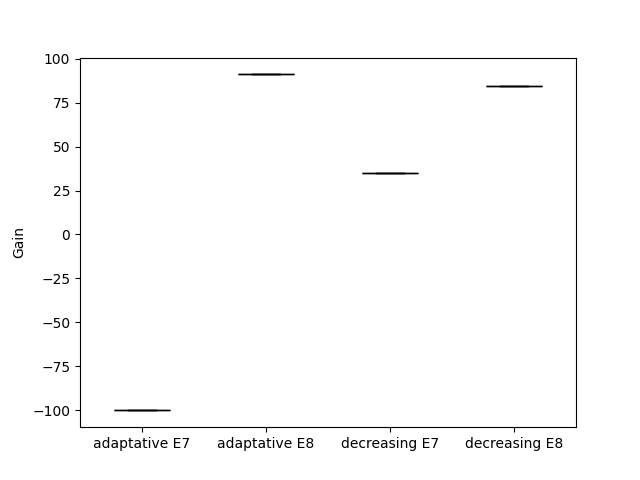
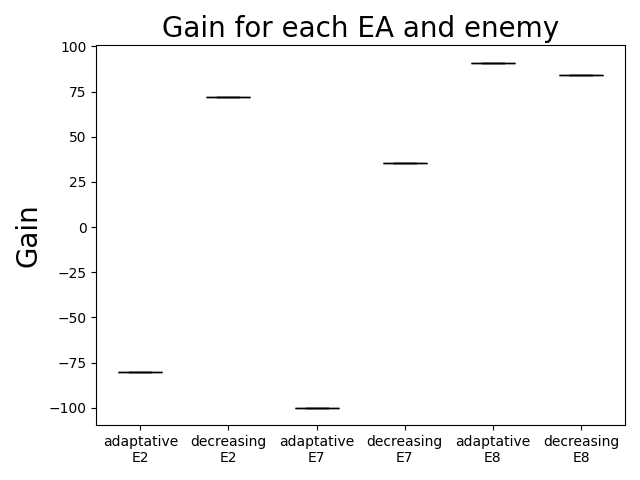
fix plotting

diff --git a/results_ass1.py b/results_ass1.py
@@ -37,7 +37,12 @@ def plot_stats(stats: dict, enemy: int):
     for _, df in stats.items():
         all_best_fit.append(df['best_fit'])
         all_mean_fit.append(df['mean_fit'])
-        all_median_prob.append(df['median_prob'] * 100)
+        if 'median_prob' in df.columns:
+            all_median_prob.append(df['median_prob'] * 100)
+        elif 'prob' in df.columns:
+            all_median_prob.append(df['prob'] * 100)
+        else:
+            raise Exception("whoops")
     
     best_fit_df = pd.DataFrame(all_best_fit)
     mean_fit_df = pd.DataFrame(all_mean_fit)
@@ -55,20 +60,25 @@ def plot_stats(stats: dict, enemy: int):
     
     def plot_plot():
         plt.figure(figsize=(10, 6))
-        plt.plot(generations, avg_best_fit, label='Average Best Fitness', color='blue', linestyle='-',)
+        plt.plot(generations, avg_best_fit, label='Av. Best Fitness', color='blue', linestyle='-',)
         plt.fill_between(generations, avg_best_fit - std_best_fit, avg_best_fit + std_best_fit, color='blue', alpha=0.2)
-        plt.plot(generations, avg_mean_fit, label='Average Mean Fitness', color='green', linestyle='-')
+        plt.plot(generations, avg_mean_fit, label='Av. Mean Fitness', color='green', linestyle='-')
         plt.fill_between(generations, avg_mean_fit - std_mean_fit, avg_mean_fit + std_mean_fit, color='green', alpha=0.2)
-        plt.plot(generations, avg_median_prob, label='Average Median Probability', color='red', linestyle='-')
+        plt.plot(generations, avg_median_prob, label='Av. Median Probability', color='red', linestyle='-')
         plt.fill_between(generations, avg_median_prob - std_median_prob, avg_median_prob + std_median_prob, color='red', alpha=0.2)
-        
 
-        plt.title(f'Average fitness in 10 runs of EA1 for Enemy {enemy}')
-        plt.xlabel('Generation')
-        plt.ylabel('Fitness')
+        # ax2 = plt.gca().twinx()
+        # ax2.set_ylabel('Percentage', fontsize=20)  # Set title for the right y-axis
+        # ax2.plot(generations, avg_median_prob, label='Av. Median Probability', color='red', linestyle='-')
+        # ax2.fill_between(generations, avg_median_prob - std_median_prob, avg_median_prob + std_median_prob, color='red', alpha=0.2)
+        
+        plt.title(f'Average fitness in 10 runs of EA1 for Enemy {enemy}', fontsize=20)
+        plt.xlabel('Generation', fontsize=20)
+        plt.ylabel('Fitness', fontsize=20)
         plt.legend(
-            loc='lower left', bbox_to_anchor=(0.5, 0.2),
-            fontsize=12,
+            loc='lower left',
+            bbox_to_anchor=(0.5, 0.2),
+            fontsize=16,
             markerscale=2,
             # handlelength=3,
             # handleheight=2, #legend
@@ -77,6 +87,8 @@ def plot_stats(stats: dict, enemy: int):
             # shadow=True,
         )
         plt.grid(True)
+        plt.tight_layout()
+
         plot_name = os.path.basename(next(iter(stats)))[:-2]
         plt.savefig(os.path.join(save_path, plot_name))
         print("saved " + plot_name)
@@ -163,7 +175,7 @@ def calculate_gain(weights_file_path: str, enemies: list) -> dict:
             print(ea.env.play(pcont=best_ind))
 
             
-            all_gains_dict[f"{weights_file_path.split('/')[1].replace('_ea', '').replace('_bad', '')} E{enemy}"] = gains_list
+            all_gains_dict[f"{weights_file_path.split('/')[1].replace('_ea', '').replace('_bad', '')}\nE{enemy}"] = gains_list
     
 
     return all_gains_dict
@@ -182,7 +194,9 @@ def save_box_plot(all_gains_dict: dict):
     print(len(colors))
 
     _, ax = plt.subplots()
-    ax.set_ylabel('Gain')
+    ax.set_ylabel('Gain', fontsize=20)
+    ax.set_title('Gain for each EA and enemy', fontsize=20)
+    
 
     bplot = ax.boxplot(gains,
                     patch_artist=True,
@@ -191,6 +205,7 @@ def save_box_plot(all_gains_dict: dict):
 
     for patch, color in zip(bplot['boxes'], colors):
         patch.set_facecolor(color)
+    plt.tight_layout()
 
     plt.savefig("results/plots/box-plot")
     print("saved box_plot")
@@ -200,7 +215,7 @@ if __name__ == "__main__":
     
     dir_adaptative = "results/adaptative_ea_bad"
     dir_decreasing = "results/decreasing_ea"
-    enemies=[7, 8]
+    enemies=[2, 7, 8]
 
    
 
@@ -213,7 +228,7 @@ if __name__ == "__main__":
         stats_decreasing = read_stats(dir_decreasing, f"{os.path.basename(dir_decreasing)}-{enemy}")
         print("OK")
 
-        # plot_stats(stats_adaptative, enemy)
+        plot_stats(stats_adaptative, enemy)
         plot_stats(stats_decreasing, enemy)
         print("OK")
 
@@ -234,5 +249,5 @@ if __name__ == "__main__":
 
     print(all_gains_dict)
     print("OK")
-    save_box_plot(all_gains_dict)
+    save_box_plot(dict(sorted(all_gains_dict.items(), key=lambda x: int(x[0].split('E')[-1]))))
  
